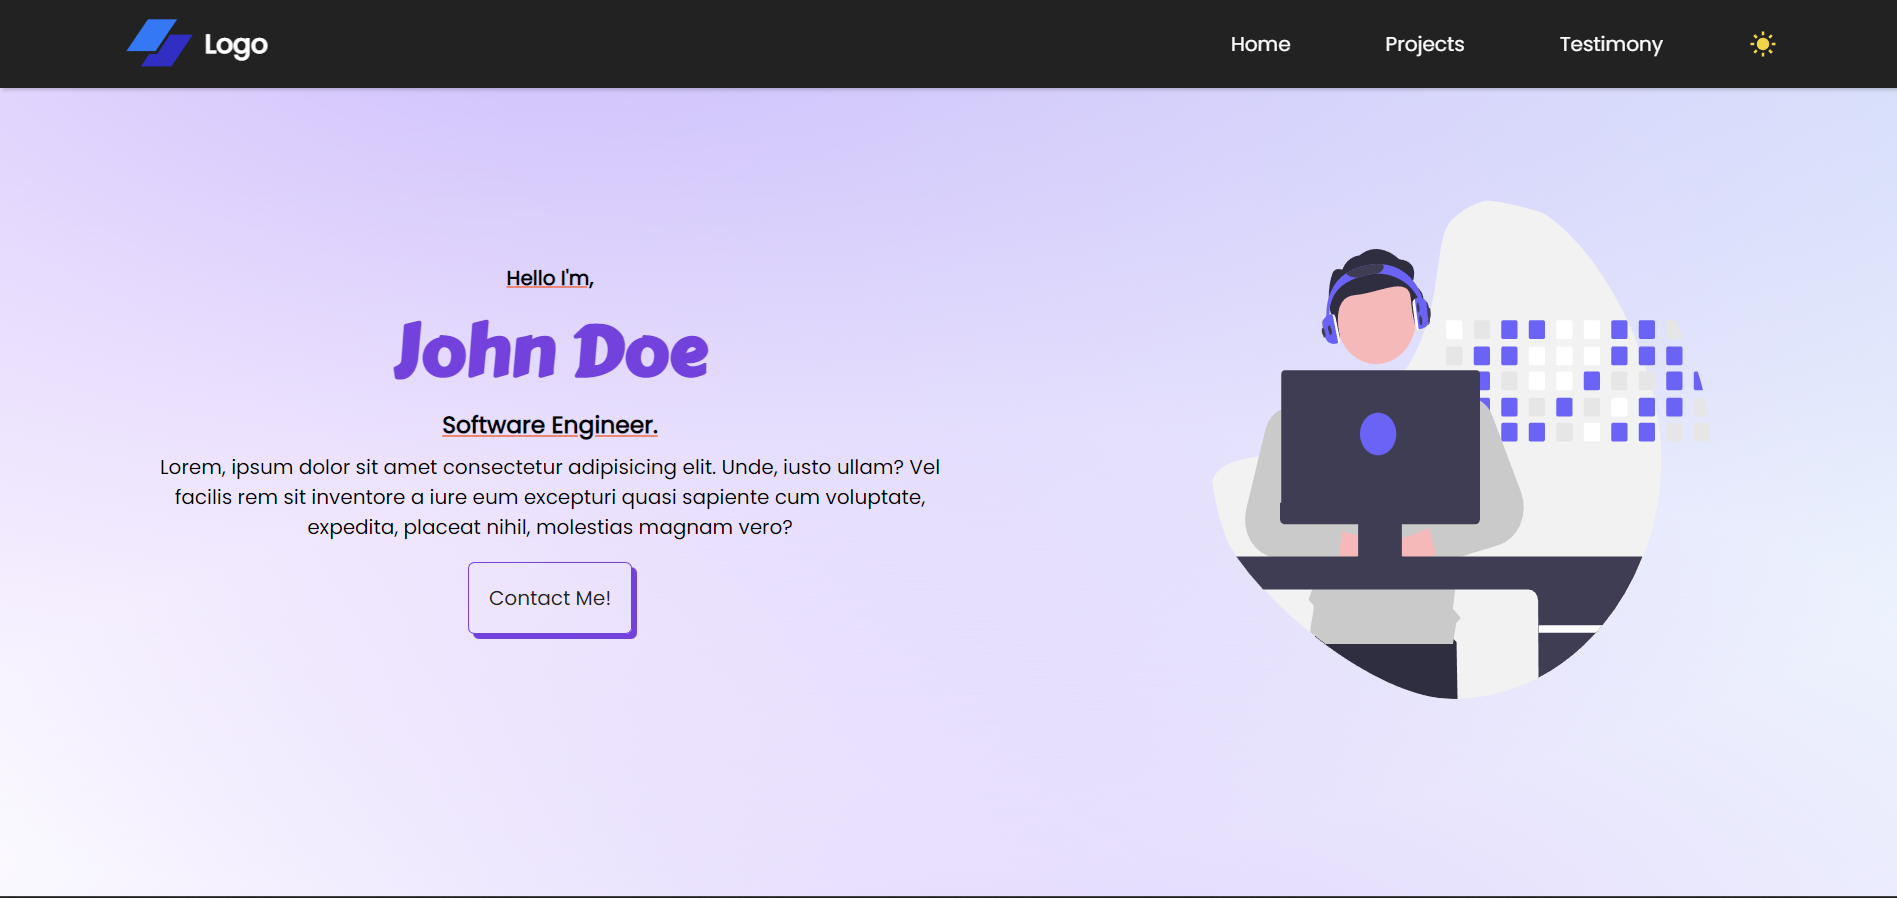
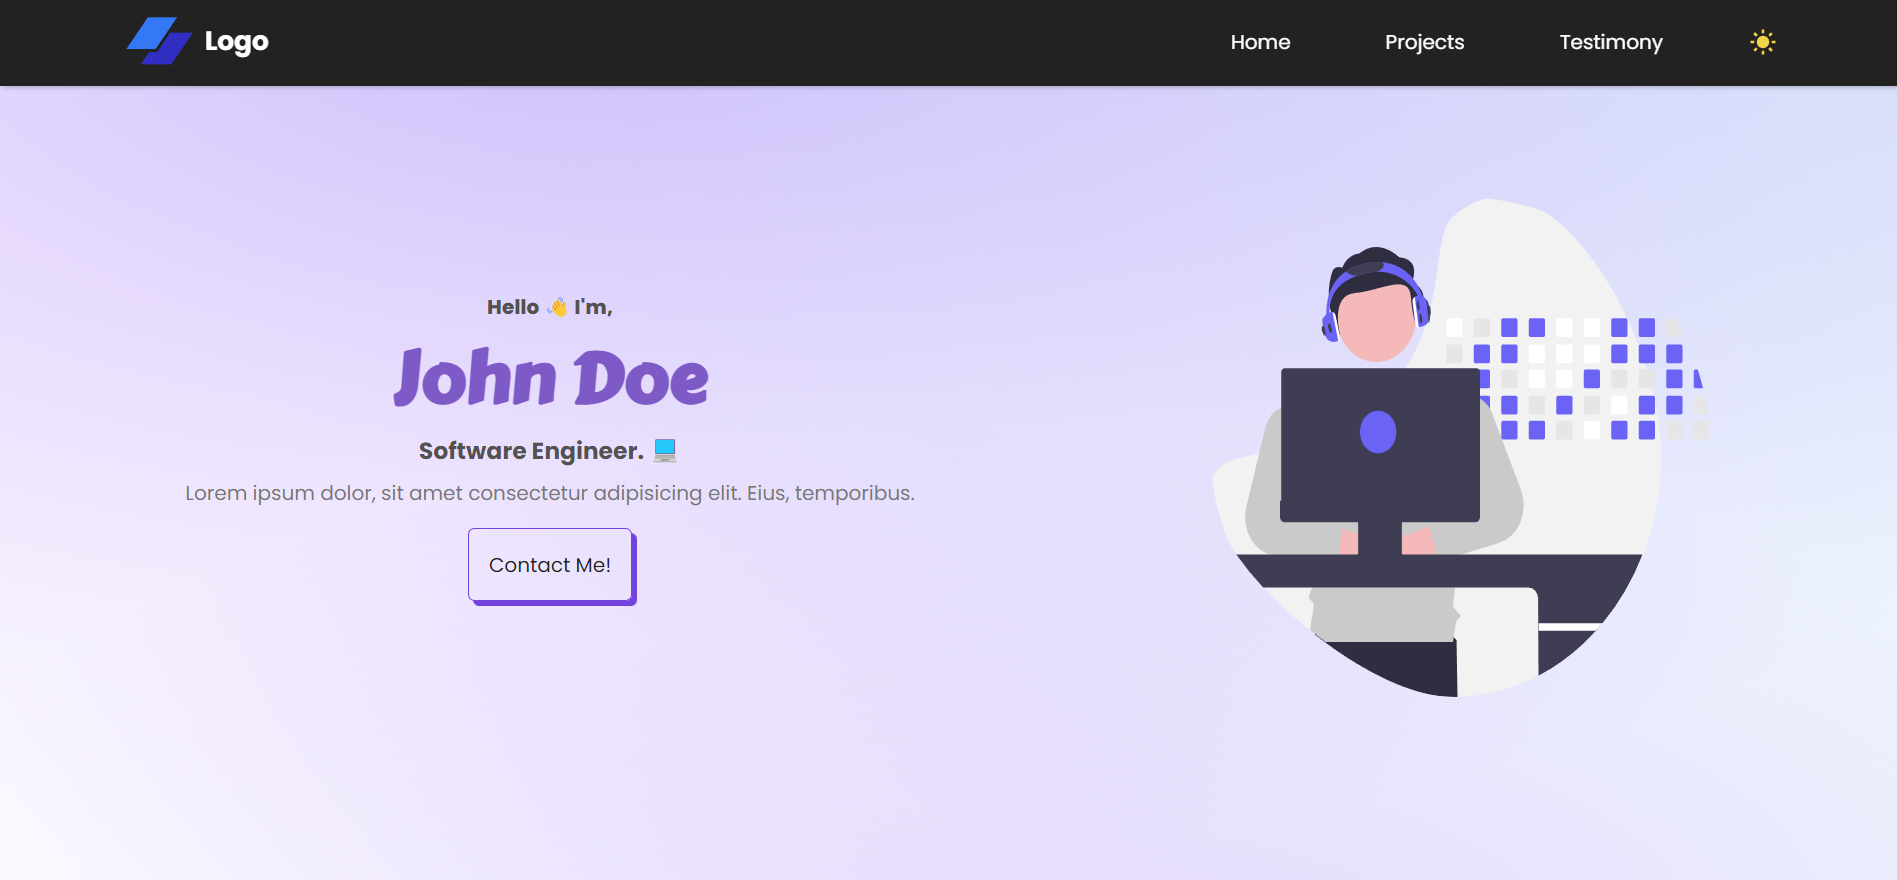
Add custom cursor and separate reset css 🎄.

diff --git a/beginner/index.css b/beginner/index.css
@@ -1,12 +1,8 @@
-@import url("https://fonts.googleapis.com/css?family=Poppins&display=swap");
-@import url("https://fonts.googleapis.com/css?family=Carter+One&display=swap");
+@import url('https://fonts.googleapis.com/css2?family=Poppins:ital,wght@0,100;0,200;0,300;0,400;0,500;0,600;0,700;0,800;0,900;1,100;1,200;1,300;1,400;1,500;1,600;1,700;1,800;1,900&display=swap');
+@import url('https://fonts.googleapis.com/css2?family=Carter+One&display=swap');
 
-/* Setting the margin, padding, box-sizing, and font-family for all elements. */
 * {
-    margin: 0;
-    padding: 0;
-    box-sizing: border-box;
-    font-family: 'Poppins', sans-serif;
+    cursor: url('./assets/cursor.cur'),auto;
 }
 
 /* Setting the default background color to white and the default text color to black. */
@@ -26,7 +22,7 @@ html {
 }
 
 body {
-    max-width: 100%;
+    font-family: 'Poppins', sans-serif;
 }
 
 header {
@@ -98,7 +94,6 @@ li {
 
 .hamburger {
     display: none;
-    cursor: pointer;
 }
 
 .bar {
@@ -143,23 +138,22 @@ section {
     font-size: 3.5rem;
     font-family: 'Carter One', sans-serif;
     font-weight: bold;
-    color: #7b3fe4;
+    color: #8358cd;
 }
 
 .txt__upper {
-    font-weight: 900;
-    text-decoration-line: underline;
-    text-decoration-color: salmon;
+    font-weight: 800;
+    color: rgb(83, 81, 81);
 }
 
 .txt__under {
-    font-weight: bold;
-    text-decoration-line: underline;
-    text-decoration-color: salmon;
+    font-weight: 700;
+    color: rgb(83, 81, 81);
 }
 
 .desc {
     padding: .5rem;
+    color: rgb(119, 119, 119);
 }
 
 .btn {
@@ -176,7 +170,11 @@ section {
 }
 
 .btn:hover {
-    transform: scale(1.1);
+    /*transform: scale(1.1);*/
+    color: rgb(239, 248, 252);
+    background-color: #7b3fe4;
+    box-shadow: none;
+    border: 0;
 }
 
 .txt::first-letter {
@@ -225,7 +223,7 @@ section {
 
 .card {
     box-shadow: rgba(17, 12, 46, 0.15) 0px 48px 100px 0px;
-    border-bottom-right-radius: 1rem;
+    border-radius: 12px;
 }
 
 .card__cover {
@@ -233,7 +231,8 @@ section {
 }
 
 .card__cover img {
-    border-top-left-radius: 1rem;
+    border-top-left-radius: 12px;
+    border-top-right-radius: 12px;
 }
 
 .card:hover {
@@ -243,7 +242,8 @@ section {
 .card__content {
     padding: 1.25rem;
     background-color: white;
-    border-bottom-right-radius: 1rem;
+    border-bottom-left-radius: 12px;
+    border-bottom-right-radius: 12px;
 }
 
 .card__content p {
@@ -268,7 +268,7 @@ section {
 }
 
 .testimony {
-    background: #7b3fe4;
+    background: #7757ae;
     display: flex;
     flex-direction: column;
     justify-content: center;
@@ -481,7 +481,6 @@ figcaption {
     height: 30px;
     margin: 10px 10px;
     position: relative;
-    cursor: pointer;
     display: inline-block;
   }
   .nav-icon-6 span{

diff --git a/beginner/index.html b/beginner/index.html
@@ -6,6 +6,7 @@
     <meta name="viewport" content="width=device-width, initial-scale=1.0">
     <title>Landing page</title>
     <link rel="icon" href="assets/favicon.ico">
+    <link rel="stylesheet" href="reset.css">
     <link rel="stylesheet" href="index.css">
     <link rel="stylesheet" href="https://cdn.jsdelivr.net/npm/swiper/swiper-bundle.min.css">
 </head>
@@ -42,10 +43,10 @@
     <main>
         <section class="hero" id="hero__section">
             <article class="left-hero">
-                <p class="txt__upper">Hello I'm,</p>
+                <p class="txt__upper">Hello 👋 I'm,</p>
                 <h1 class="txt">John Doe</span></h1>
-                <h3 class="txt__under">Software Engineer.</h3>
-                <p class="desc">Lorem, ipsum dolor sit amet consectetur adipisicing elit. Unde, iusto ullam? Vel facilis rem sit inventore a iure eum excepturi quasi sapiente cum voluptate, expedita, placeat nihil, molestias magnam vero?</p>
+                <h3 class="txt__under">Software Engineer. 💻</h3>
+                <p class="desc">Lorem ipsum dolor, sit amet consectetur adipisicing elit. Eius, temporibus.</p>
                 <div class="soclinks">
                     <button class="btn" type="button">Contact Me!</button>
                 </div>

diff --git a/beginner/reset.css b/beginner/reset.css
@@ -1,0 +1,46 @@
+*,
+*::before,
+*::after {
+    box-sizing: border-box;
+}
+  
+* {
+    margin: 0;
+}
+
+html,
+body {
+    height: 100%;
+}
+
+body {
+    line-height: 1.5;
+    -webkit-font-smoothing: antialiased;
+}
+
+img,
+picture,
+video,
+canvas,
+svg {
+    display: block;
+    max-width: 100%;
+}
+
+input,
+button,
+textarea,
+select {
+    font: inherit;
+}
+
+p,
+h1,
+h2,
+h3,
+h4,
+h5,
+h6 {
+    overflow-wrap: break-word;
+}
+  
